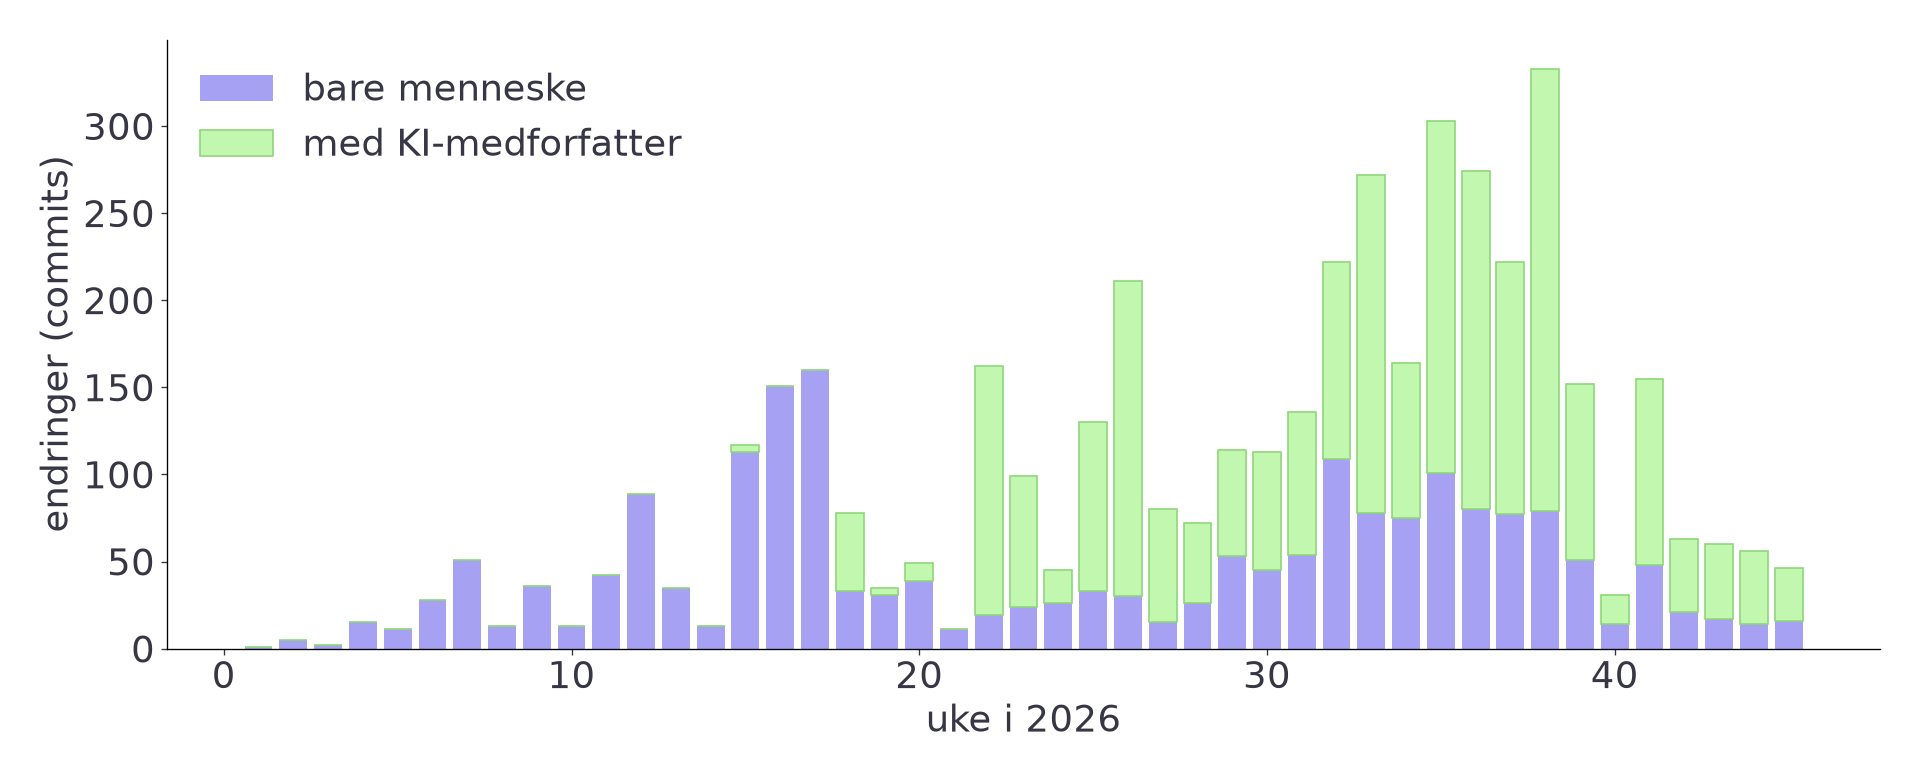
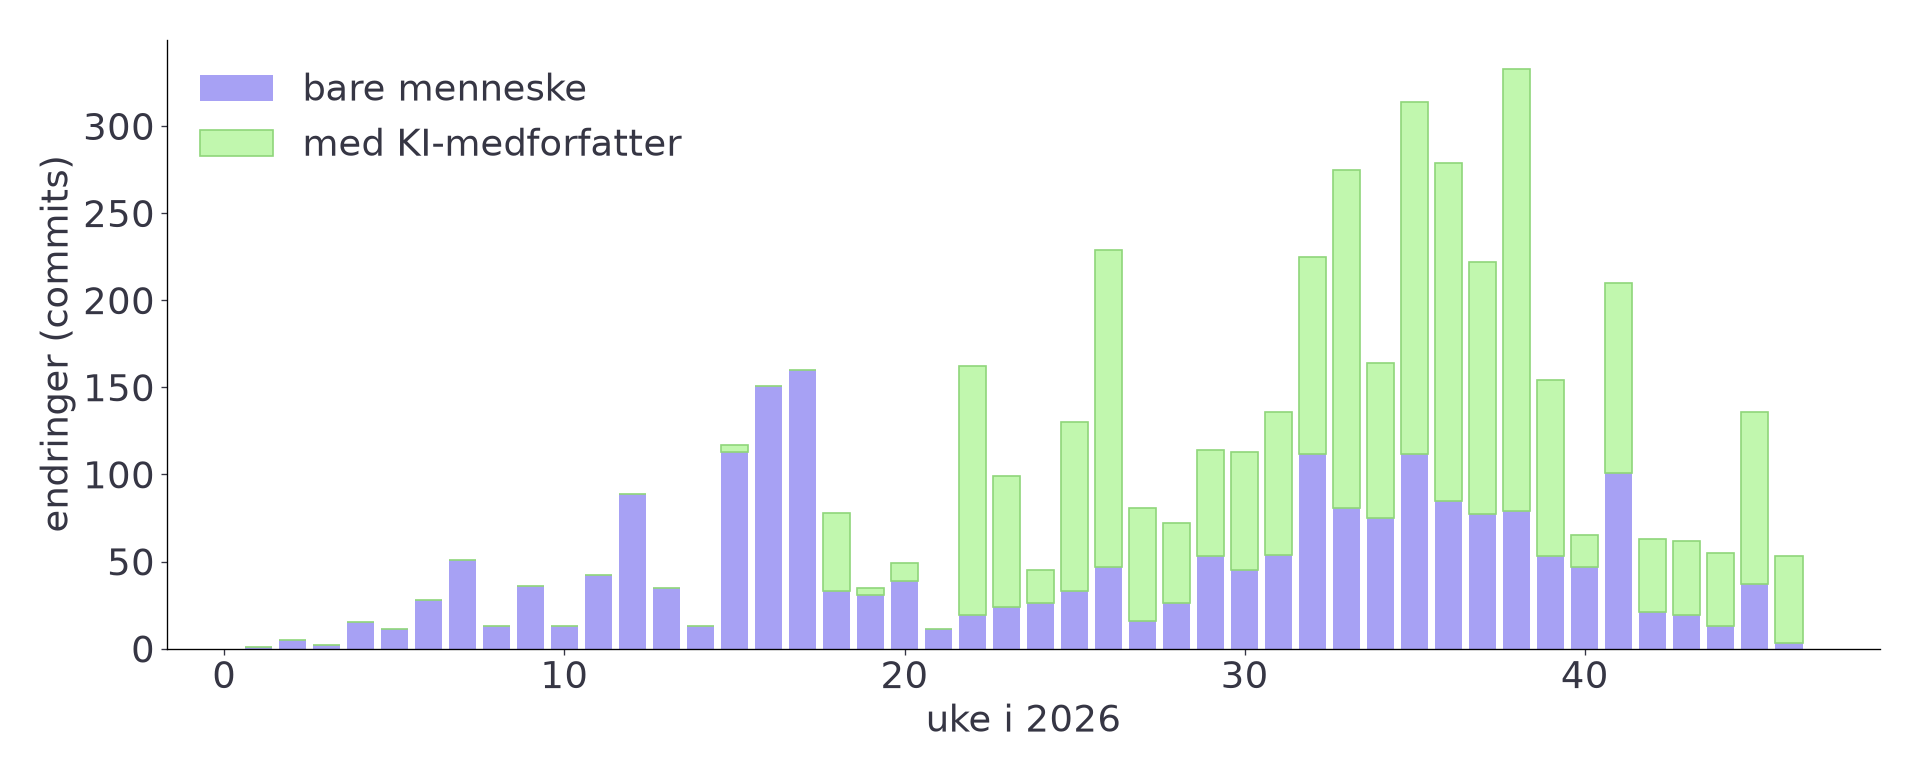
Verktøy og modell, modellversjoner
Claude-Session: https://claude.ai/code/session_016zWeqZ6yZ7hxAzraApGpHd

Changed region(s): [[0.1875, 0.0615, 0.9375, 0.8923]]

diff --git a/images/numbers.js b/images/numbers.js
@@ -1,6 +1,6 @@
 window.NUMBERS = {
- "commits": 4742,
- "commits_ai": 2592,
+ "commits": 4746,
+ "commits_ai": 2596,
  "commits_ai_p": "55 %",
  "repos": 64,
  "repos_ai": 42,
@@ -15,8 +15,9 @@ window.NUMBERS = {
  "s2": "Jeg skrev denne setningen selv,",
  "h1": "778ba1dc8c649fa48e3425946b689f9f",
  "h2": "b1f019b53121b659c2f2db2270204060",
+ "n_models": 7,
  "updated": "2026-11-11",
- "worklog": "## 2026-11-11, ny struktur\n\nInnlegget er bygget om rundt forskerutdanningen, etter Alexanders bestilling: når maskinene kan levere produktet, må vi lære bort og vurdere prosessen. Fire kapitler med farget bakgrunn (veiledning er kvalitetskontroll, dokumenter prosessen, vurder prosessen, kjenn modellen) og tre råd til slutt. Fra DNVA-innledningen 12. november: generativ eller agentisk KI og kurvene for når man kan gi et selvstendig bidrag. Fra foredraget for datamanagerne 11. november: agenten rydder datasettet, mennesket bestemmer, og paradata i stedet for skjemaer. Lysbildet \"Ti minutter\" er fjernet, og \"Hvor jeg snakker fra\" er nytt etter tittelen.",
- "gitlog": "8da6886  2026-11-11  README for Pages-kopien\ne80d466  2026-11-11  Valgfri setning fra DMN-salen i notatene til 9/0; make_site.py for Pages\n540db28  2026-11-10  Klammene løst: UiO har undertegnet avtalen (CoARA), to runder i samskapingsfiguren; tallene oppdatert\nc128b79  2026-11-06  Rollefiguren og kvalitetskontroll, større kodeblokker, og tittelen hentet fra siteringsfilen.\neb30488  2026-11-06  Første utkast: elleve temaer fra egen bruk til hvordan presentasjonen ble laget.",
+ "worklog": "## 2026-11-11, ny struktur\n\nInnlegget er bygget om rundt forskerutdanningen, etter Alexanders bestilling: når maskinene kan levere produktet, må vi lære bort og vurdere prosessen. Fire kapitler med farget bakgrunn (veiledning er kvalitetskontroll, dokumenter prosessen, vurder prosessen, kjenn modellen) og tre råd til slutt. Fra DNVA-innledningen 12. november: generativ eller agentisk KI og kurvene for når man kan gi et selvstendig bidrag. Fra foredraget for datamanagerne 11. november: agenten rydder datasettet, mennesket bestemmer, og paradata i stedet for skjemaer. Lysbildet \"Ti minutter\" er fjernet, og \"Hvor jeg snakker fra\" er nytt etter tittelen.\n\nTittellysbildet har nå Alexanders fotografi av merkestikker i tåke (20. februar 2024) over hele skjermen, med navnet hans, tittel og undertittel øverst, navn, sted og dato nederst; kjedefiguren er tatt ut der (den står fortsatt under 2). Overskriften på \"Hvor jeg snakker fra\" er fjernet.",
+ "gitlog": "dae404d  2026-11-11  Tittel og undertittel øverst, navn, sted og dato nederst\na8fe50f  2026-11-11  Tittelteksten øverst og nederst, bildet fritt i midten\n6873fbe  2026-11-11  Tittel med fotografi og navn; uten overskrift på 0/1\nea9a22b  2026-11-11  PDF bygget på nytt\nf27024d  2026-11-11  Ny struktur rundt forskerutdanningen: fire kapitler på farget bakgrunn, hvor jeg snakker fra, figurer fra DNVA og DMN\n8da6886  2026-11-11  README for Pages-kopien\ne80d466  2026-11-11  Valgfri setning fra DMN-salen i notatene til 9/0; make_site.py for Pages\n540db28  2026-11-10  Klammene løst: UiO har undertegnet avtalen (CoARA), to runder i samskapingsfiguren; tallene oppdatert",
  "commit_msg": "commit 0b0df5e\nAuthor: Alexander Refsum Jensenius\nDate:   2026-11-06 07:44\n\n    Ten weeks: images and video merged as chapter 5, code and agents as chapter 8, and every chapter brought up to the Sensing book conventions.\n\n    Co-Authored-By: Claude Fable 5.1 <noreply@anthropic.com>"
 };

diff --git a/index.html b/index.html
@@ -415,6 +415,21 @@ date-released: "<span data-n="mgt_released"></span>"</pre>
     <aside class="notes">Alt til venstre kan vi dokumentere. Det vi ikke har kontroll på, er innholdet i modellene, særlig de kommersielle. Vi vet ikke hva de er trent på, og en modell kan ikke peke tilbake til kildene sine. Vi kan skrive at vi brukte en modell og hvilken versjon, men ikke hva som er inne i den.</aside>
   </section>
   <section class="center-slide">
+    <p class="kicker">Verktøy og modell</p>
+    <h2>Verktøyet er ikke modellen</h2>
+    <div class="layers" style="width:1600px">
+      <img class="lay" src="images/fig-verktoy-modell-0.png" alt="Agentverktøy: Claude Code, Codex, Copilot i VS Code, Cursor og opencode">
+      <img class="lay fragment" src="images/fig-verktoy-modell-1.png" alt="Modellene under: Claude, GPT, Gemini og åpne modeller, med linjer fra hvert verktøy. Samme verktøy kan bytte modell, og samme modell sitter i flere verktøy.">
+    </div>
+    <aside class="notes">Et skille mange overser. Øverst er agentverktøyene, det man sitter i og gir oppgaver til. (Klikk.) Under er modellene, motoren som gjør jobben. Noen verktøy er knyttet til én leverandør, andre kan bruke mange modeller, også åpne modeller som kjører lokalt. Samme modell sitter i flere verktøy, og samme verktøy kan bytte modell midt i et prosjekt. Når en stipendiat skriver "jeg brukte KI", må vi derfor spørre: hvilket verktøy, hvilken modell, og hvilken versjon?</aside>
+  </section>
+  <section class="center-slide">
+    <p class="kicker">Versjoner</p>
+    <h2>Modellene skifter hele tiden</h2>
+    <img src="images/fig-modellversjoner.png" alt="Modellversjonene som har vært medforfattere på Alexanders commits i 2026, som stolper fra første til siste dag" style="max-height:62vh">
+    <aside class="notes">Og modellene endrer seg. Dette er modellversjonene som har vært medforfatter på endringene mine i år, hentet fra git-historikken: <span data-n="n_models"></span> versjoner siden juni, og hver av dem har vært i bruk i noen uker eller måneder før neste tok over. Det samme spørsmålet gir et annet svar med en ny versjon, og de gamle versjonene forsvinner fra tjenestene. Å skrive "ChatGPT" eller "Claude" i metodekapittelet er som å oppgi "et mikroskop" uten merke og modell. Derfor må versjonsnummeret være med, slik det står i commit-linjen vi så i sted, og slik det står i KI-erklæringen.</aside>
+  </section>
+  <section class="center-slide">
     <p class="kicker">MishMash</p>
     <h2>Derfor egne modeller</h2>
     <p class="big" style="font-size:1em">Små modeller, kjent materiale, åpen kode</p>

diff --git a/README.md b/README.md
@@ -16,7 +16,7 @@ Se presentasjonen: https://pages.github.uio.no/alexanje/forskningsetikk-2026/
 
 Ti minutter, på norsk. Påstanden er at det viktigste forskningsetiske grepet med kunstig intelligens er mer åpenhet, og at verktøyene for å få det til allerede finnes: versjonskontroll, tidsstempler, varige identifikatorer (DOI og ORCID), siteringsfiler og arbeidslogger gjør det mulig å dokumentere hva som er gjort av mennesker og hva av maskiner. Det vi ikke har kontroll på, er innholdet i svart-boks-modellene, særlig de kommersielle, og derfor trenger vi egne modeller med innsyn i treningsdata.
 
-Innlegget handler om forskerutdanningen: når maskinene kan levere produktet, må vi lære bort og vurdere prosessen. Det har fire kapitler: veiledning er kvalitetskontroll, dokumenter prosessen, vurder prosessen og kjenn modellen, og slutter med tre råd til stipendiater og veiledere og med hvordan presentasjonen ble laget. Nederst i hver stabel ligger mer stoff til panelet.
+Innlegget handler om forskerutdanningen: når maskinene kan levere produktet, må vi lære bort og vurdere prosessen. Det har fire kapitler: veiledning er kvalitetskontroll, dokumenter prosessen, vurder prosessen og kjenn modellen (der også at verktøyet ikke er modellen, og at modellene skifter, så versjonsnummeret må med), og slutter med tre råd til stipendiater og veiledere og med hvordan presentasjonen ble laget. Nederst i hver stabel ligger mer stoff til panelet.
 
 ## Bruk
 
